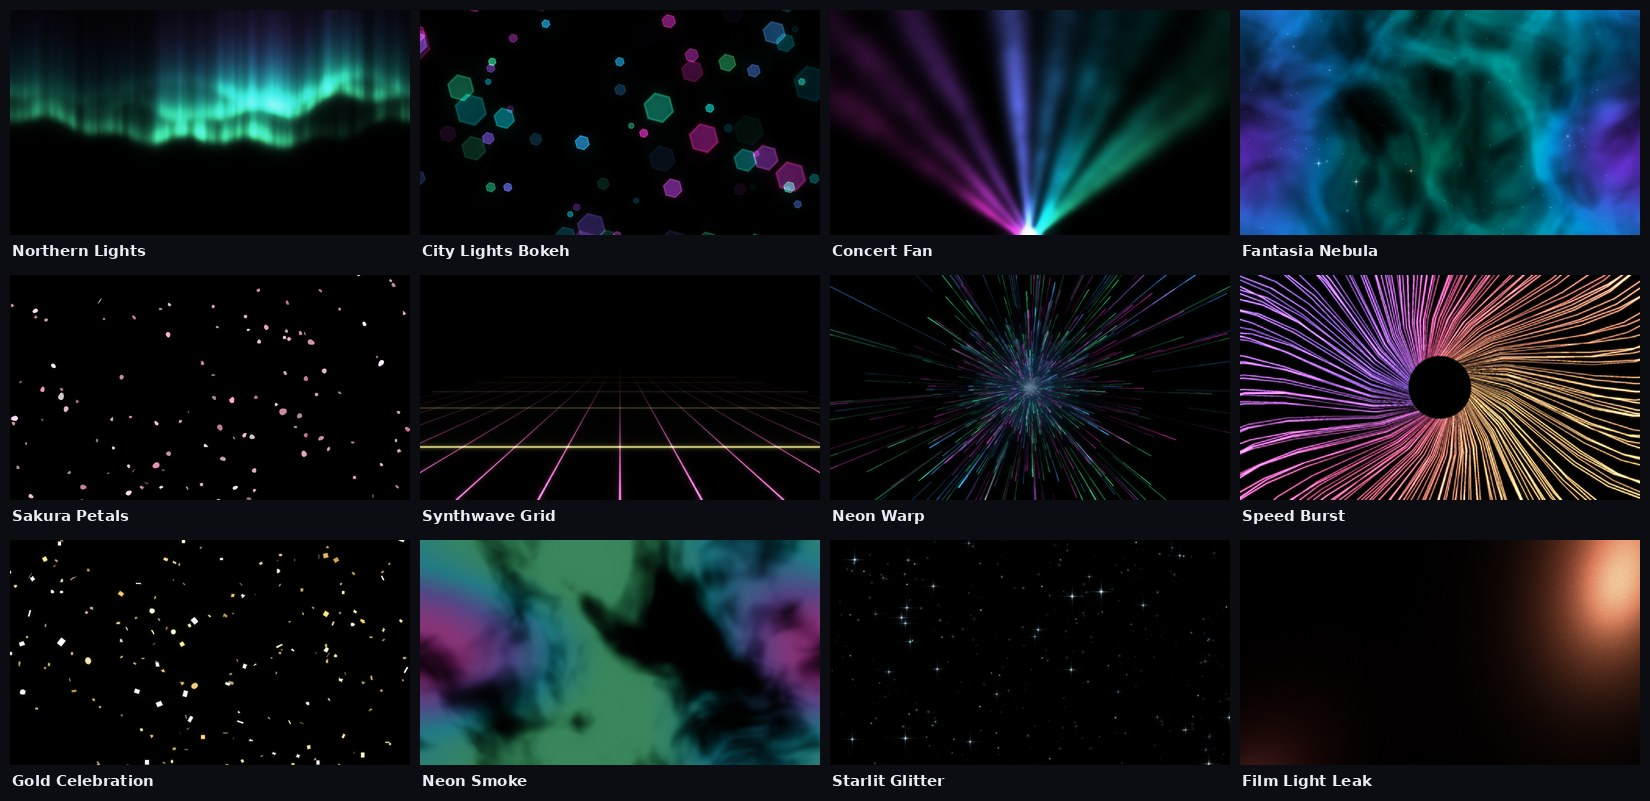
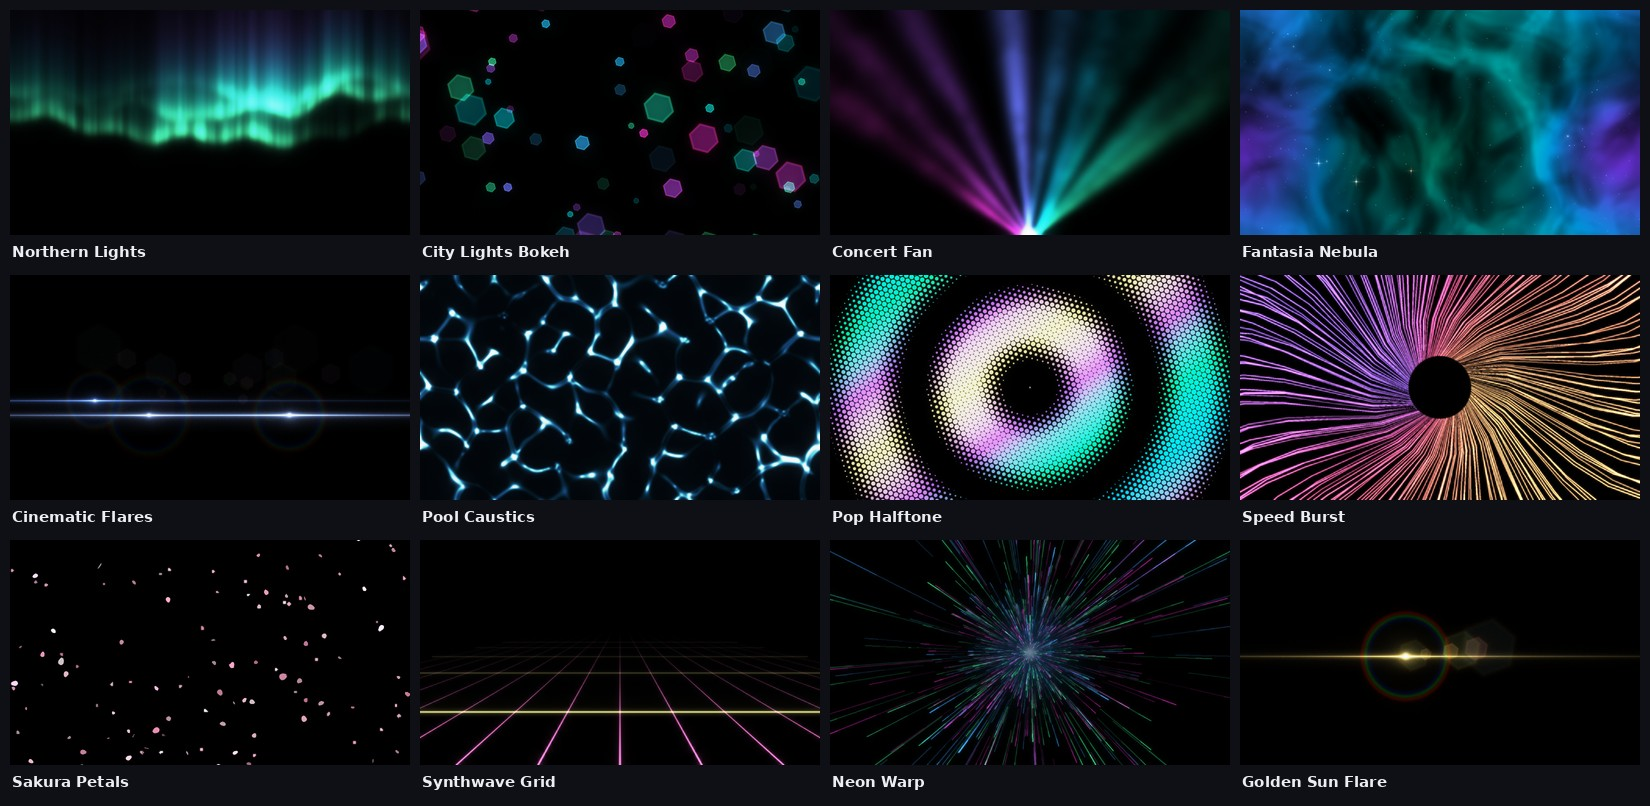
Document 0.3.0: Japanese UI, light theme and new effects
Update README, CHANGELOG, CONTRIBUTING and PLUGIN_API (translations for
plugins and looks), refresh the screenshots and the looks collage, and add
a Japanese light-theme screenshot.

Claude-Session: https://claude.ai/code/session_01XbXFwm7pM4mQiwAjRx2vx8

diff --git a/efx/__init__.py b/efx/__init__.py
@@ -1,4 +1,4 @@
 """EffectFactory application package (engine, export and UI)."""
 
-__version__ = "0.2.0"
+__version__ = "0.3.0"
 APP_NAME = "Effect Factory"

diff --git a/README.md b/README.md
@@ -4,14 +4,19 @@ EffectFactory is a local-first desktop tool for making loopable overlay effects
 for music videos, streams, shorts and other creator work. Pick a look, tweak it
 live, export a seamless loop. Everything renders on your machine.
 
+日本語 UI に対応しています（OS の言語設定に合わせて自動で切り替わり、ヘッダーからいつでも変更できます）。
+
 ![Effect Factory main window](docs/images/ui.png)
 
 ## Highlights
 
-- **Beautiful by default** – 14 procedural effects rebuilt on an HDR rendering
+- **Beautiful by default** – 17 procedural effects built on an HDR rendering
   kit (soft bloom, highlight roll-off, anti-aliasing, banding-free dithering)
-  and 36 curated looks such as *Northern Lights*, *City Lights Bokeh*,
-  *Sakura Petals*, *Synthwave Grid* and *Hyperspace*.
+  and 43 curated looks such as *Northern Lights*, *Cinematic Flares*,
+  *Pool Caustics*, *Pop Halftone*, *Sakura Petals* and *Synthwave Grid*.
+- **Japanese / English, dark / light** – the interface follows your system
+  language and can be switched from the header (globe button), together with a
+  dark or light theme (sun / moon button). Your work is kept when you switch.
 - **Seamless loops** – motion is snapped to the loop length so most effects
   loop perfectly with no blending. Effects that cannot (and animated timelines)
   get an automatic cross-fade.
@@ -35,14 +40,26 @@ live, export a seamless loop. Everything renders on your machine.
 
 ![Some of the included looks](docs/images/looks.jpg)
 
+![Japanese interface with the light theme](docs/images/ui-light-ja.png)
+
 ## Included effects
 
 | Category   | Effects |
 |------------|---------|
 | Particles  | Sparkle Dust, Confetti Pro (paper, ribbons, hearts, petals, stars), Rain & Sprites (custom PNGs), Snowfall |
-| Light      | Bokeh Orbs, Light Rays (stage / live), Light Leaks |
-| Atmosphere | Fog Haze, Starfield Pro, Aurora Ribbons |
-| Graphic    | Focus Lines, Grid Lattice (incl. synthwave floor), Warp Speed |
+| Light      | Bokeh Orbs, Light Rays (stage / live), Light Leaks, **Anamorphic Flares** |
+| Atmosphere | Fog Haze, Starfield Pro, Aurora Ribbons, **Water Caustics** |
+| Graphic    | Focus Lines, Grid Lattice (incl. synthwave floor), Warp Speed, **Halftone Waves** |
+
+New in 0.3:
+
+- **Anamorphic Flares** – drifting lights with long horizontal lens streaks,
+  spectral halo rings and ghost reflections mirrored through the frame centre.
+- **Water Caustics** – the light net at the bottom of a pool, computed by
+  refracting light through a moving wave surface (with optional prism-like
+  dispersion and wind).
+- **Halftone Waves** – pop-art dot screens whose dots swell with ripples,
+  sweeps, interfering waves or noise, on a hexagonal or square grid.
 | Glitch     | Glitch Scanlines |
 
 ## Requirements
@@ -79,6 +96,10 @@ On macOS / Linux use `python3 -m venv .venv` and `source .venv/bin/activate`.
    half-resolution check, *Still PNG* for thumbnails, *ZIP package* to bundle a
    render with the README/LICENSE templates in `templates/`.
 
+The globe button in the header switches the language (日本語 / English /
+match the system) and the sun / moon button switches between the dark and light
+themes; both are remembered.
+
 Your own looks are saved with *Save look* (`Ctrl+S`) and appear under *Mine*.
 They live in your user folder (`%APPDATA%\EffectFactory`, `~/Library/Application Support/EffectFactory`
 or `~/.config/effect-factory`) together with your settings.
@@ -102,6 +123,7 @@ or `~/.config/effect-factory`) together with your settings.
 
 ```text
 python effect_factory.py --look "Northern Lights" --tab export
+python effect_factory.py --theme light --lang ja     # for this session only
 python effect_factory.py --screenshot window.png   # capture the window and quit
 ```
 
@@ -137,7 +159,8 @@ efx/engine.py       frame renderer, loop cross-fades, camera zoom
 efx/export.py       ffmpeg discovery, encoders, MP4/MOV/PNG export
 efx/randomize.py    Surprise me and variations
 efx/settings.py     user settings and saved looks
-efx/ui/             Tk interface (theme, widgets, library, preview, inspector)
+efx/i18n.py         UI translations (English source strings, Japanese)
+efx/ui/             Tk interface (themes, widgets, library, preview, inspector)
 effects/            effect plugins and the shared rendering kit (_fxkit.py)
 presets/            built-in looks (JSON)
 tests/              unit, render, export and UI smoke tests
@@ -159,6 +182,7 @@ EFFECT = {
          "min": 10, "max": 1000, "group": "shape"},
         {"key": "palette", "label": "Palette", "type": "palette", "default": "aurora", "group": "color"},
     ],
+    "i18n": {"ja": {"name": "マイエフェクト", "params": {"count": ("量", "粒の数。")}}},  # optional
     "build_cache": build_cache,
     "render_frame": render_frame,
 }

diff --git a/docs/PLUGIN_API.md b/docs/PLUGIN_API.md
@@ -17,6 +17,7 @@ that raises while loading is skipped and reported in the log.
 | `description` | no | One sentence for tooltips and the inspector |
 | `seamless` | no | `True`, or `callable(params) -> bool`, when the effect repeats exactly after the loop length. Other effects get an automatic cross-fade in loop mode. |
 | `asset` | no | Optional image input (see `effects/png_rain.py`): `key`, `label`, `builtin` choices, `default`, `preview(token, size)` and `filetypes` |
+| `i18n` | no | Translations of the texts above, per language code (see *Translations*) |
 
 ## Parameter descriptors
 
@@ -125,6 +126,38 @@ Looks are JSON files in `presets/` (built-in) or the user's looks folder:
 A parameter value can be fixed, a `[min, max]` range, or `{"choices": [...]}`.
 Ranges and choices are resolved per variation, each parameter from its own
 random stream.
+
+## Translations
+
+The interface is available in English and Japanese. Texts in `EFFECT` are
+English; add an `i18n` entry to translate them:
+
+```python
+"i18n": {"ja": {
+    "name": "マイドット",
+    "description": "漂う光の粒。",
+    "params": {                      # key: (label, help) – help is optional
+        "count": ("量", "粒の数。"),
+        "shape": ("形",),
+    },
+    "choices": {"circle": "円", "star": "星"},       # values of choice parameters
+    "asset": {"label": "形", "hint": "…", "builtin": {"token": "ラベル"}},
+}}
+```
+
+Common labels such as *Palette*, *Speed*, *Glow*, *Brightness* or *Grain*
+are translated automatically, so only list your own terms. Anything missing
+falls back to English.
+
+Looks translate their name, description and tags the same way (the English
+`name` stays the look's identifier and is used for file names):
+
+```json
+"i18n": {"ja": {"name": "オーロラ", "description": "緑と紫のオーロラのカーテン。", "tags": ["オーロラ", "夜"]}}
+```
+
+The tests check that every built-in effect parameter, look and UI string has a
+Japanese translation (`tests/test_i18n.py`).
 
 ## Authoring guidelines
 

diff --git a/CHANGELOG.md b/CHANGELOG.md
@@ -1,5 +1,33 @@
 # Changelog
 
+## v0.3.0 - Japanese UI, light theme, three new effects
+
+### New
+- Japanese user interface (日本語). The language follows the operating system
+  and can be changed from the globe button in the header (日本語 / English /
+  match the system). Effects, parameters, palettes and looks are translated;
+  search finds looks by their English or Japanese names.
+- Light theme next to the dark one (sun / moon button in the header). Switching
+  theme or language keeps the current look, edits, markers, history and
+  thumbnails. On Windows the title bar follows the theme.
+- Anamorphic Flares: drifting lights with long horizontal lens streaks,
+  spectral halos and ghost reflections.
+- Water Caustics: pool-floor light nets from light refracted through moving
+  waves, with prism-like dispersion and wind.
+- Halftone Waves: pop-art halftone dots driven by ripples, sweeps,
+  interference or noise on hexagonal or square grids.
+- Seven new looks: Cinematic Flares, Golden Sun Flare, Pool Caustics, Prism
+  Water, Pop Halftone, Mono Halftone Sweep and Neon Interference (43 in total).
+- Plugins and looks can carry their own translations (`"i18n"`), see
+  `docs/PLUGIN_API.md`.
+- `--theme` and `--lang` command-line options.
+
+### Fixed
+- The width / height fields in the Export tab no longer show values rounded to
+  the drag step (1080 was displayed as 1088).
+- Bloom and colour fringing no longer misread float64 buffers from plugins.
+- Background Tk errors are written to the log instead of the console.
+
 ## v0.2.0 - Redesign
 
 ### New

diff --git a/CONTRIBUTING.md b/CONTRIBUTING.md
@@ -10,6 +10,16 @@ small local-first creator tool, so practical improvements are especially useful.
 - add a colour palette to `effects/_fxkit.py`
 - document a plugin authoring detail
 - add a small, self-contained effect plugin (see `docs/PLUGIN_API.md`)
+- improve a translation: UI strings live in `efx/i18n.py`, effect and look
+  texts in their `"i18n"` entries
+
+## Translations
+
+User-visible text in the `efx` package goes through `tr()` with an English
+source string, for example `tr("Saved look “{name}”", name=name)`. Add the
+Japanese text to `JA` in `efx/i18n.py` with the same `{fields}`;
+`tests/test_i18n.py` fails when a string, effect parameter or look has no
+translation.
 
 ## Development setup
 
